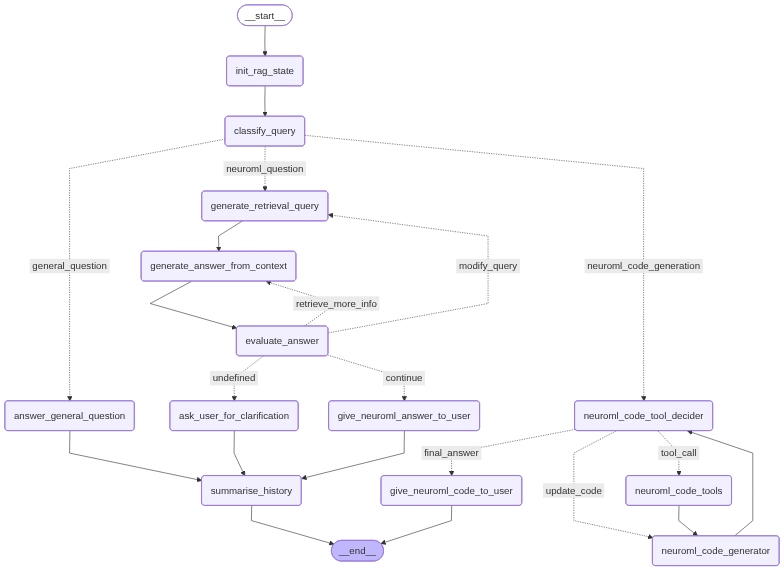
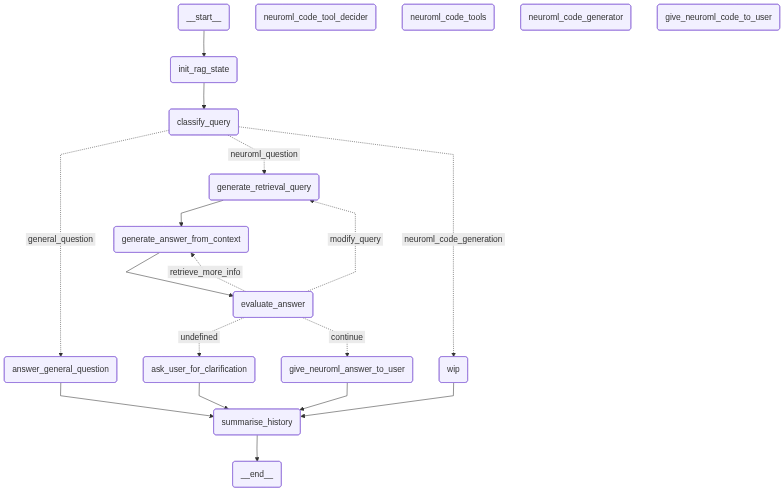
feat: add no-op node for code generation

diff --git a/neuroml_ai/rag/rag.py b/neuroml_ai/rag/rag.py
@@ -395,7 +395,9 @@ class NML_RAG(object):
                 query_type_result = QueryTypeSchema(**query_type_result)
             else:
                 if not isinstance(query_type_result, QueryTypeSchema):
-                    self.logger.critical(f"Received unexpected query classification: {query_type_result =}")
+                    self.logger.critical(
+                        f"Received unexpected query classification: {query_type_result =}"
+                    )
                     query_type_result = QueryTypeSchema(query_type="undefined")
 
         self.logger.debug(f"{query_type_result =}")
@@ -403,6 +405,17 @@ class NML_RAG(object):
             "query_type": query_type_result,
             "messages": messages,
         }
+
+    def _wip_node(self, state: AgentState) -> dict:
+        """Just a node that says things are WIP"""
+        assert self.model
+        self.logger.debug(f"{state =}")
+
+        # For the moment
+        amessage = "I cannot currently generate NeuroML related code. This is a work in progress. Can I help you with something else."
+        messages = state.messages
+        messages.append(AIMessage(amessage))
+        return {"messages": messages, "message_for_user": amessage}
 
     def _neuroml_code_tool_decider_node(self, state: AgentState) -> dict:
         """Generate code"""
@@ -993,6 +1006,7 @@ class NML_RAG(object):
         self.workflow.add_node(
             "answer_general_question", self._answer_general_question_node
         )
+        self.workflow.add_node("wip", self._wip_node)
         self.workflow.add_node(
             "neuroml_code_tool_decider", self._neuroml_code_tool_decider_node
         )
@@ -1024,7 +1038,8 @@ class NML_RAG(object):
             {
                 "general_question": "answer_general_question",
                 "neuroml_question": "generate_retrieval_query",
-                "neuroml_code_generation": "neuroml_code_tool_decider",
+                "neuroml_code_generation": "wip",
+                # "neuroml_code_generation": "neuroml_code_tool_decider",
                 # for completeness: the classifier should rarely return
                 # undefined
                 "undefined": "answer_general_question",
@@ -1061,6 +1076,7 @@ class NML_RAG(object):
         self.workflow.add_edge("give_neuroml_answer_to_user", "summarise_history")
         self.workflow.add_edge("ask_user_for_clarification", "summarise_history")
         self.workflow.add_edge("answer_general_question", "summarise_history")
+        self.workflow.add_edge("wip", "summarise_history")
         self.workflow.add_edge("summarise_history", END)
 
         self.graph = self.workflow.compile(checkpointer=self.checkpointer)
